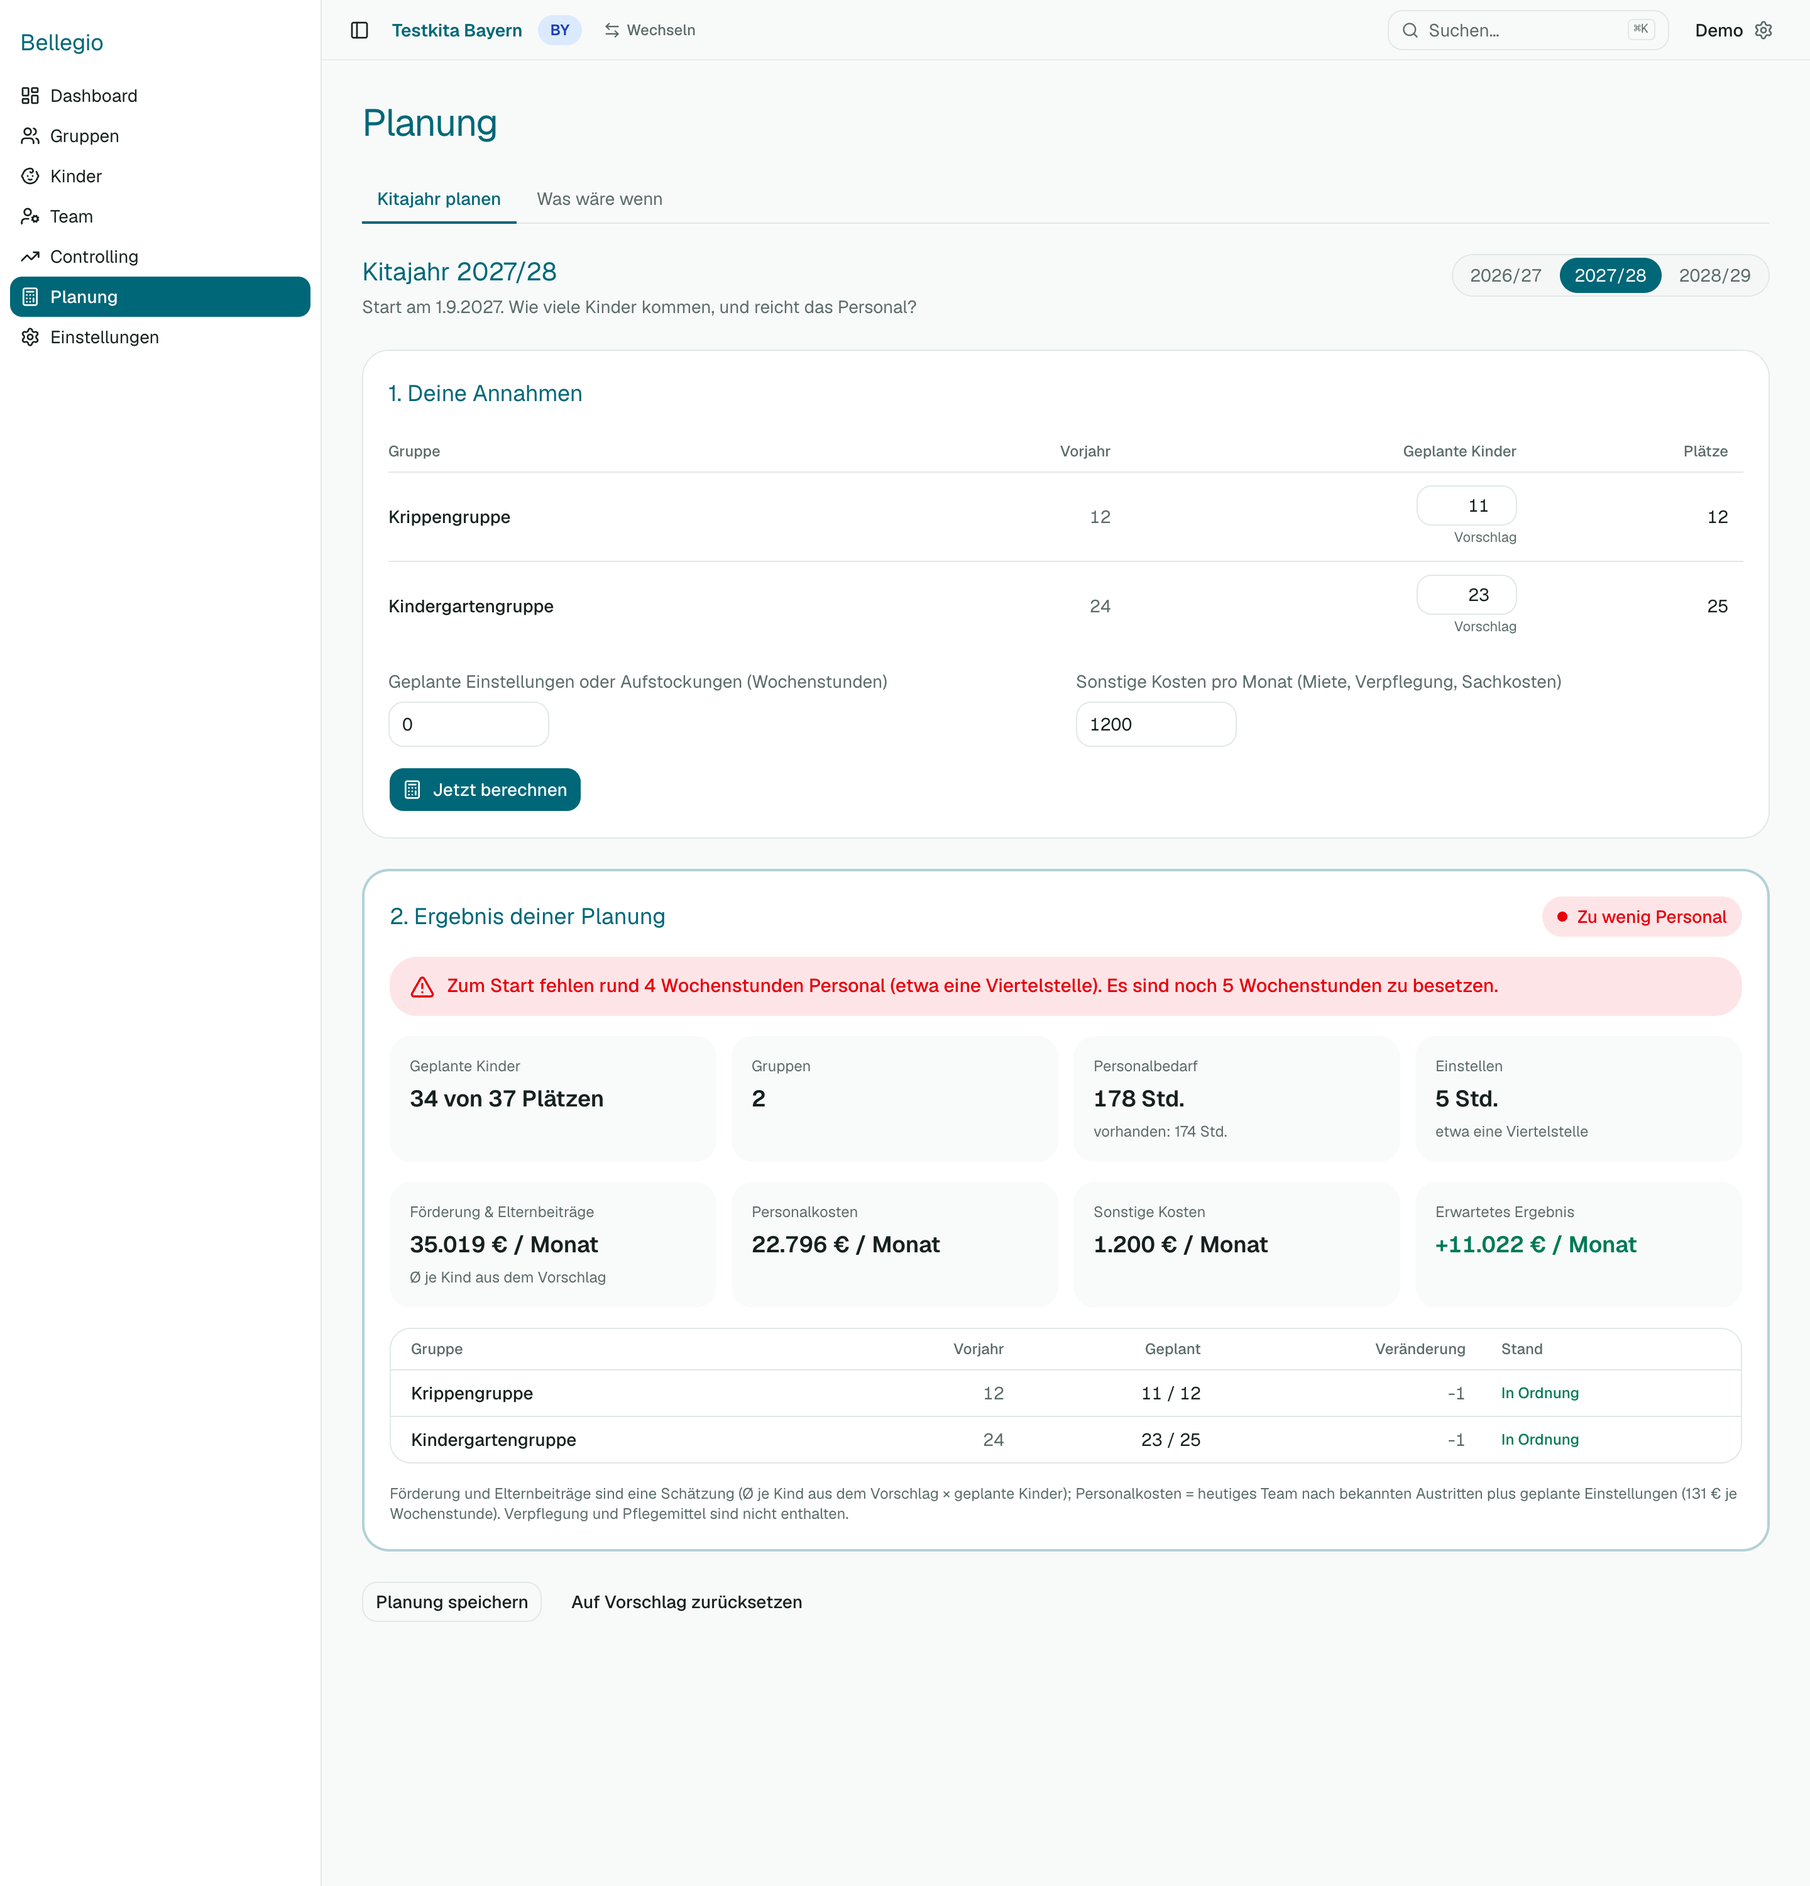
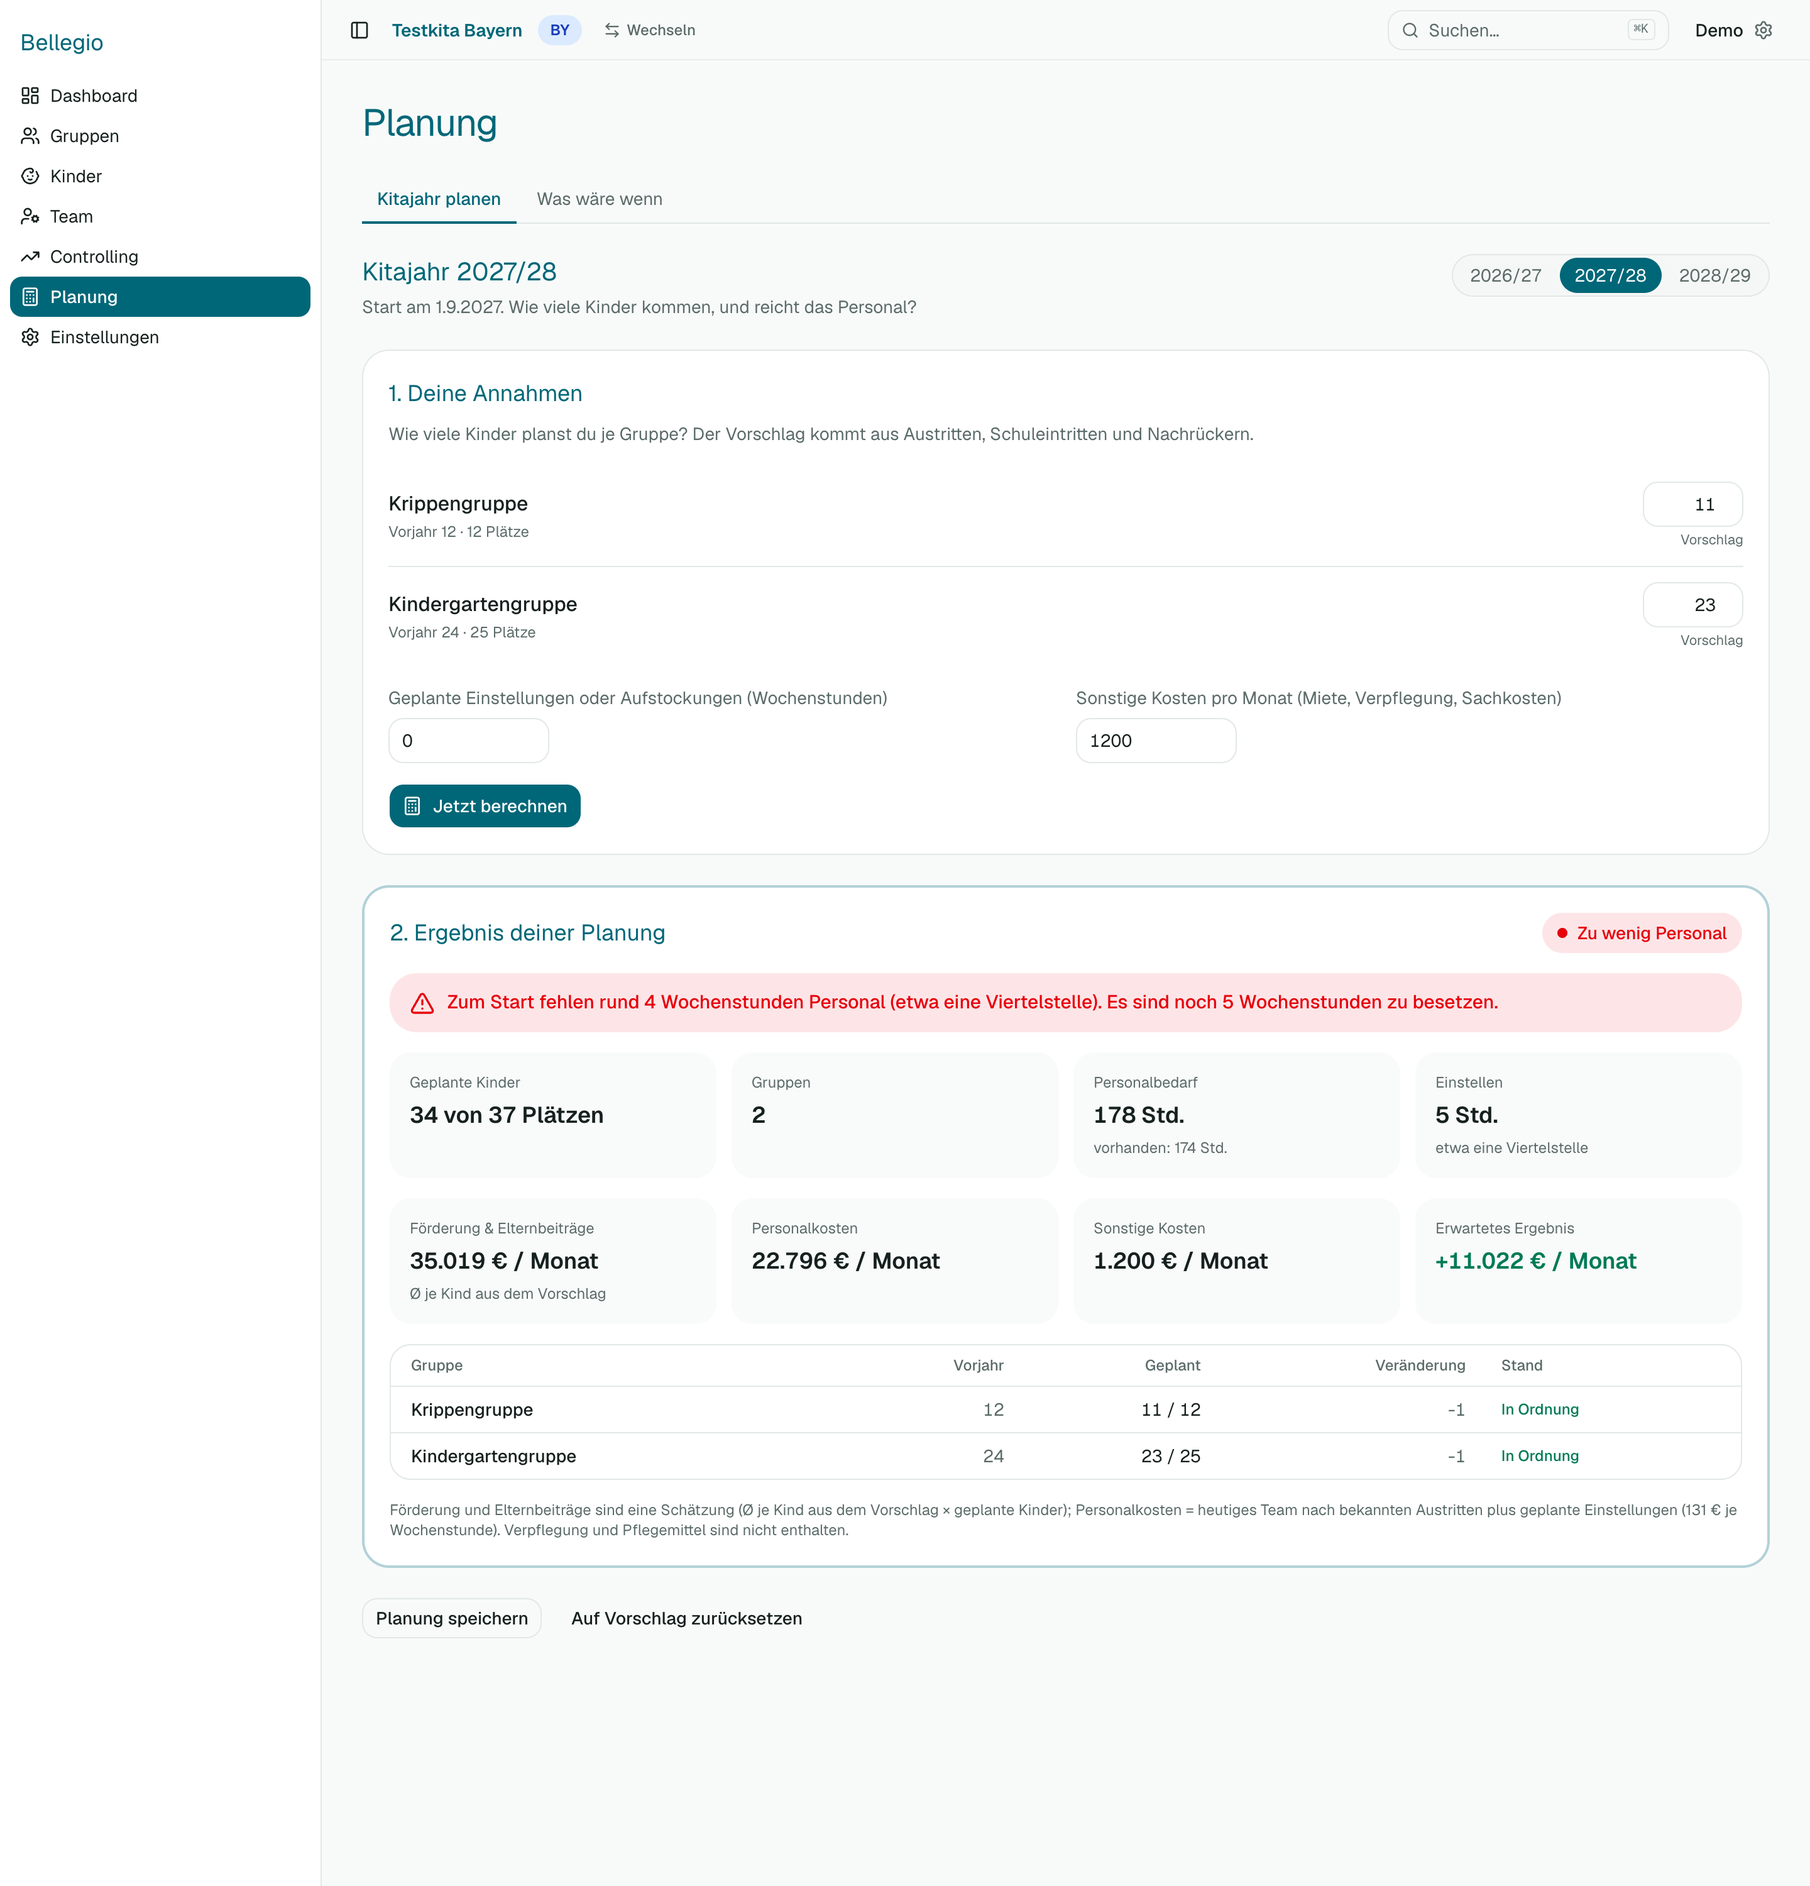
Dashboard: Button „Detailansicht“ oben rechts; mobil: Gruppen als Karten, Planung ohne Überlauf; Screenshots aktualisiert

diff --git a/components/szenario/kitajahr-planung.tsx b/components/szenario/kitajahr-planung.tsx
@@ -117,42 +117,34 @@ export function KitajahrPlanung({
       {/* 1. Annahmen */}
       <div className="flex flex-col gap-4 rounded-2xl border bg-card p-5">
         <h3 className="font-heading text-lg text-primary">1. Deine Annahmen</h3>
-        <div className="overflow-x-auto">
-          <table className="w-full min-w-[30rem] text-sm">
-            <thead>
-              <tr className="border-b text-left text-xs text-muted-foreground">
-                <th className="py-2 pr-3 font-medium">Gruppe</th>
-                <th className="px-3 py-2 text-right font-medium">Vorjahr</th>
-                <th className="px-3 py-2 text-right font-medium">Geplante Kinder</th>
-                <th className="px-3 py-2 text-right font-medium">Plätze</th>
-              </tr>
-            </thead>
-            <tbody>
-              {eingabe.gruppen.map((g) => {
-                const geaendert = Number(kinder[g.id]) !== g.vorschlagKinder;
-                return (
-                  <tr key={g.id} className="border-b last:border-0">
-                    <td className="py-2.5 pr-3 font-medium">{g.name}</td>
-                    <td className="px-3 py-2.5 text-right tabular-nums text-muted-foreground">{g.vorjahrKinder}</td>
-                    <td className="px-3 py-2.5 text-right">
-                      <Input
-                        type="number"
-                        min={0}
-                        className="ml-auto h-8 w-20 text-right tabular-nums"
-                        value={kinder[g.id]}
-                        disabled={!darfBearbeiten}
-                        onChange={(ev) => setKinder((alt) => ({ ...alt, [g.id]: ev.target.value }))}
-                        aria-label={`Geplante Kinder in ${g.name}`}
-                      />
-                      <span className="mt-0.5 block text-[11px] text-muted-foreground">{geaendert ? `Vorschlag: ${g.vorschlagKinder}` : "Vorschlag"}</span>
-                    </td>
-                    <td className="px-3 py-2.5 text-right tabular-nums">{g.sollplaetze}</td>
-                  </tr>
-                );
-              })}
-            </tbody>
-          </table>
-        </div>
+        <p className="-mt-2 text-sm text-muted-foreground">Wie viele Kinder planst du je Gruppe? Der Vorschlag kommt aus Austritten, Schuleintritten und Nachrückern.</p>
+        <ul className="flex flex-col divide-y">
+          {eingabe.gruppen.map((g) => {
+            const geaendert = Number(kinder[g.id]) !== g.vorschlagKinder;
+            return (
+              <li key={g.id} className="flex items-center justify-between gap-4 py-3">
+                <div className="flex min-w-0 flex-col gap-0.5">
+                  <span className="font-medium">{g.name}</span>
+                  <span className="text-xs text-muted-foreground">
+                    Vorjahr {g.vorjahrKinder} · {g.sollplaetze} Plätze
+                  </span>
+                </div>
+                <div className="flex shrink-0 flex-col items-end">
+                  <Input
+                    type="number"
+                    min={0}
+                    className="h-9 w-20 text-right tabular-nums"
+                    value={kinder[g.id]}
+                    disabled={!darfBearbeiten}
+                    onChange={(ev) => setKinder((alt) => ({ ...alt, [g.id]: ev.target.value }))}
+                    aria-label={`Geplante Kinder in ${g.name}`}
+                  />
+                  <span className="mt-0.5 text-[11px] text-muted-foreground">{geaendert ? `Vorschlag: ${g.vorschlagKinder}` : "Vorschlag"}</span>
+                </div>
+              </li>
+            );
+          })}
+        </ul>
         <div className="grid gap-4 md:grid-cols-2">
           <div className="flex flex-col gap-1.5">
             <label htmlFor="einstellen" className="text-sm text-muted-foreground">
@@ -216,13 +208,13 @@ export function KitajahrPlanung({
           ) : null}
 
           <div className="overflow-x-auto rounded-xl border">
-            <table className="w-full min-w-[30rem] text-sm">
+            <table className="w-full text-sm">
               <thead>
                 <tr className="border-b text-left text-xs text-muted-foreground">
                   <th className="px-4 py-2 font-medium">Gruppe</th>
-                  <th className="px-3 py-2 text-right font-medium">Vorjahr</th>
+                  <th className="hidden px-3 py-2 text-right font-medium sm:table-cell">Vorjahr</th>
                   <th className="px-3 py-2 text-right font-medium">Geplant</th>
-                  <th className="px-3 py-2 text-right font-medium">Veränderung</th>
+                  <th className="hidden px-3 py-2 text-right font-medium sm:table-cell">Veränderung</th>
                   <th className="px-4 py-2 font-medium">Stand</th>
                 </tr>
               </thead>
@@ -230,11 +222,11 @@ export function KitajahrPlanung({
                 {e.zeilen.map((z) => (
                   <tr key={z.id} className="border-b last:border-0">
                     <td className="px-4 py-2 font-medium">{z.name}</td>
-                    <td className="px-3 py-2 text-right tabular-nums text-muted-foreground">{z.vorjahr}</td>
+                    <td className="hidden px-3 py-2 text-right tabular-nums text-muted-foreground sm:table-cell">{z.vorjahr}</td>
                     <td className="px-3 py-2 text-right tabular-nums">
                       {z.plan} / {z.plaetze}
                     </td>
-                    <td className="px-3 py-2 text-right tabular-nums text-muted-foreground">{z.delta > 0 ? `+${z.delta}` : z.delta}</td>
+                    <td className="hidden px-3 py-2 text-right tabular-nums text-muted-foreground sm:table-cell">{z.delta > 0 ? `+${z.delta}` : z.delta}</td>
                     <td className={cn("px-4 py-2 text-xs font-medium", STATUS_KLASSE[z.status])}>{STATUS_WORT[z.status]}</td>
                   </tr>
                 ))}

diff --git a/components/dashboard/gruppen-ampel.tsx b/components/dashboard/gruppen-ampel.tsx
@@ -68,7 +68,55 @@ export function GruppenAmpel({
         </p>
       ) : null}
 
-      <div className="overflow-x-auto">
+      {/* Handy: je Gruppe eine Karte statt einer breiten Tabelle */}
+      <ul className="flex flex-col gap-3 md:hidden">
+        {gruppen.map((g) => {
+          const ueber = g.belegt > g.sollplaetze;
+          return (
+            <li key={g.gruppeId} className="flex flex-col gap-2 rounded-xl border p-3">
+              <div className="flex items-start justify-between gap-3">
+                <div>
+                  <Link href={`/gruppen/${g.gruppeId}`} className="font-medium text-primary hover:underline">
+                    {g.name}
+                  </Link>
+                  <span className="block text-xs text-muted-foreground">{GRUPPENART_LABEL[g.gruppenart] ?? g.gruppenart}</span>
+                </div>
+                <span className={cn("text-right text-sm tabular-nums", ueber && "font-medium text-destructive")}>
+                  {g.belegt} / {g.sollplaetze}
+                  <span className="block text-xs font-normal text-muted-foreground">
+                    {ueber ? `${g.belegt - g.sollplaetze} zu viel` : g.sollplaetze - g.belegt > 0 ? `${g.sollplaetze - g.belegt} frei` : "voll"}
+                  </span>
+                </span>
+              </div>
+              {zuordnung.belastbar ? (
+                <div className="flex flex-col items-start gap-1">
+                  <AmpelBadge ampel={g.personal.ampel} />
+                  {g.kritisch ? (
+                    <span className={cn("text-xs font-medium", g.kritisch.ampel === "rot" ? "text-destructive" : "text-amber-700 dark:text-amber-400")}>
+                      {g.kritisch.monat <= stichtagMonat ? "Jetzt" : `Ab ${monatKurz(g.kritisch.monat)}`}
+                      {g.kritisch.ampel === "rot" ? " zu wenig Personal" : " knapp"}
+                    </span>
+                  ) : null}
+                  <span className="text-xs tabular-nums text-muted-foreground">{personalText(g, modell)}</span>
+                </div>
+              ) : null}
+              <p
+                className={cn(
+                  "text-xs font-medium",
+                  g.zusage.art === "ja" && "text-emerald-700 dark:text-emerald-400",
+                  g.zusage.art === "personal" && "text-destructive",
+                  g.zusage.art === "spaeter" && "text-amber-700 dark:text-amber-400",
+                  g.zusage.art === "nein" && "text-muted-foreground"
+                )}
+              >
+                Neues Kind aufnehmen? {g.zusage.text}
+              </p>
+            </li>
+          );
+        })}
+      </ul>
+
+      <div className="hidden overflow-x-auto md:block">
         <table className="w-full min-w-[34rem] text-sm">
           <thead>
             <tr className="border-b text-left text-xs text-muted-foreground">

diff --git a/app/(app)/dashboard/page.tsx b/app/(app)/dashboard/page.tsx
@@ -18,7 +18,7 @@ import Link from "next/link";
 
 /** Das Dashboard beantwortet drei Fragen: Wo ist ein Problem? Warum? Was muss ich tun? Zuerst die zwei Ampeln (Belegung,
  * Personal), dann die Handlungsliste und die Gruppen. Verlauf, Diagramme und der frei wählbare Stichtag stehen erst nach
- * einem Klick auf „Verlauf & Details“. Alles Weitere (Zahlenreihen, Zusammensetzung, Finanzverlauf) steht im Controlling. */
+ * einem Klick auf „Detailansicht“. Alles Weitere (Zahlenreihen, Zusammensetzung, Finanzverlauf) steht im Controlling. */
 export default async function DashboardPage({ searchParams }: { searchParams: Promise<{ stichtag?: string; monate?: string; ansicht?: string }> }) {
   const { stichtag: stichtagParam, monate: monateParam, ansicht } = await searchParams;
   const verlauf = ansicht === "verlauf";
@@ -53,9 +53,16 @@ export default async function DashboardPage({ searchParams }: { searchParams: Pr
 
   return (
     <div className="flex flex-col gap-6">
-      <div className="flex flex-col gap-1">
-        <h1 className="font-heading text-3xl tracking-tight text-primary">{vorname ? `Aloha, ${vorname}` : "Dashboard"}</h1>
-        {stichtag !== heute ? <p className="text-sm text-muted-foreground">Vorschau für den {formatDate(stichtag)}</p> : null}
+      <div className="flex flex-wrap items-start justify-between gap-3">
+        <div className="flex flex-col gap-1">
+          <h1 className="font-heading text-3xl tracking-tight text-primary">{vorname ? `Aloha, ${vorname}` : "Dashboard"}</h1>
+          {stichtag !== heute ? <p className="text-sm text-muted-foreground">Vorschau für den {formatDate(stichtag)}</p> : null}
+        </div>
+        {daten && !verlauf ? (
+          <Button nativeButton={false} render={<Link href={verlaufLink} />} variant="outline">
+            Detailansicht
+          </Button>
+        ) : null}
       </div>
 
       {einrichtungId ? (
@@ -101,11 +108,6 @@ export default async function DashboardPage({ searchParams }: { searchParams: Pr
               zuordnung={daten.zuordnung}
               stichtagMonat={`${stichtag.slice(0, 7)}-01`}
             />
-            <div>
-              <Button nativeButton={false} render={<Link href={verlaufLink} />} variant="outline">
-                Verlauf &amp; Details
-              </Button>
-            </div>
           </>
         )
       ) : null}

diff --git a/components/dashboard/cockpit.tsx b/components/dashboard/cockpit.tsx
@@ -251,7 +251,7 @@ export function Cockpit({
       </div>
 
       <div className="grid gap-4 md:grid-cols-2">
-        <Link href="/gruppen" className="flex items-center gap-5 rounded-2xl bg-secondary/40 p-5 transition-colors hover:bg-secondary/70">
+        <Link href="/gruppen" className="flex min-w-0 flex-col items-start gap-4 rounded-2xl bg-secondary/40 p-5 transition-colors hover:bg-secondary/70 sm:flex-row sm:items-center sm:gap-5">
           <Ring anteil={jetzt.plaetze > 0 ? jetzt.kinder / jetzt.plaetze : 0} farbe={belegungFarbe} beschreibung={`${jetzt.kinder} von ${jetzt.plaetze} Plätzen belegt`}>
             <span className="flex items-baseline text-4xl font-semibold tabular-nums leading-none">
               {kinderProzent}
@@ -268,7 +268,7 @@ export function Cockpit({
           </div>
         </Link>
 
-        <Link href="/team" className="flex items-center gap-5 rounded-2xl bg-secondary/40 p-5 transition-colors hover:bg-secondary/70">
+        <Link href="/team" className="flex min-w-0 flex-col items-start gap-4 rounded-2xl bg-secondary/40 p-5 transition-colors hover:bg-secondary/70 sm:flex-row sm:items-center sm:gap-5">
           <Ring anteil={jetzt.personalProzent / 100} farbe={personalFarbe} beschreibung={`Personal: ${jetzt.personalProzent} Prozent des nötigen`}>
             <span className="flex items-baseline text-4xl font-semibold tabular-nums leading-none">
               {jetzt.personalProzent}

diff --git a/scripts/landing-screenshots.ts b/scripts/landing-screenshots.ts
@@ -152,7 +152,7 @@ async function main() {
   await waehle(BAYERN);
   await sichern("dashboard.png", async () => {
     await page.setViewport({ width: 1440, height: 1000, deviceScaleFactor: 2 });
-    await oeffne("/dashboard", "Verlauf & Details");
+    await oeffne("/dashboard", "Detailansicht");
     await page.screenshot({ path: ziel("dashboard.png") });
     await page.setViewport({ width: 1440, height: 900, deviceScaleFactor: 2 });
   });
@@ -173,7 +173,7 @@ async function main() {
     await page.setViewport({ width: 1440, height: 900, deviceScaleFactor: 2 });
   });
   await sichern("suche.png", async () => {
-    await oeffne("/dashboard", "Verlauf & Details");
+    await oeffne("/dashboard", "Detailansicht");
     await page.keyboard.down("Meta");
     await page.keyboard.press("k");
     await page.keyboard.up("Meta");
